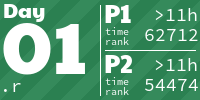
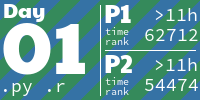
tiles changen

diff --git a/AoCTiles/.aoc_tiles_cache/leaderboard2021.html b/AoCTiles/.aoc_tiles_cache/leaderboard2021.html
@@ -88,10 +88,10 @@ If you'd like to hang out, I'm @ericwastl on Twitter.
 
 -->
 <body>
-<header><div><h1 class="title-global"><a href="/">Advent of Code</a></h1><nav><ul><li><a href="/2021/about">[About]</a></li><li><a href="/2021/events">[Events]</a></li><li><a href="https://teespring.com/stores/advent-of-code" target="_blank">[Shop]</a></li><li><a href="/2021/settings">[Settings]</a></li><li><a href="/2021/auth/logout">[Log Out]</a></li></ul></nav><div class="user">Andrew Davis <span class="star-count">20*</span></div></div><div><h1 class="title-event">&nbsp;&nbsp;<span class="title-event-wrap">{:year </span><a href="/2021">2021</a><span class="title-event-wrap">}</span></h1><nav><ul><li><a href="/2021">[Calendar]</a></li><li><a href="/2021/support">[AoC++]</a></li><li><a href="/2021/sponsors">[Sponsors]</a></li><li><a href="/2021/leaderboard">[Leaderboard]</a></li><li><a href="/2021/stats">[Stats]</a></li></ul></nav></div></header>
+<header><div><h1 class="title-global"><a href="/">Advent of Code</a></h1><nav><ul><li><a href="/2021/about">[About]</a></li><li><a href="/2021/events">[Events]</a></li><li><a href="https://teespring.com/stores/advent-of-code" target="_blank">[Shop]</a></li><li><a href="/2021/settings">[Settings]</a></li><li><a href="/2021/auth/logout">[Log Out]</a></li></ul></nav><div class="user">Andrew Davis <span class="star-count">20*</span></div></div><div><h1 class="title-event">&nbsp;&nbsp;<span class="title-event-wrap">{year=&gt;</span><a href="/2021">2021</a><span class="title-event-wrap">}</span></h1><nav><ul><li><a href="/2021">[Calendar]</a></li><li><a href="/2021/support">[AoC++]</a></li><li><a href="/2021/sponsors">[Sponsors]</a></li><li><a href="/2021/leaderboard">[Leaderboard]</a></li><li><a href="/2021/stats">[Stats]</a></li></ul></nav></div></header>
 
 <div id="sidebar">
-<div id="sponsor"><div class="quiet">Our <a href="/2021/sponsors">sponsors</a> help make Advent of Code possible:</div><div class="sponsor"><a href="https://jb.gg/AoC2021tips" target="_blank" onclick="if(ga)ga('send','event','sponsor','sidebar',this.href);" rel="noopener">JetBrains</a> - Get ready to jingle with Advent of Code in Kotlin! Have fun, learn new things, and win prizes. Believe in magic with Kotlin. Happy holidays! https://jb.gg/AoC</div></div>
+<div id="sponsor"><div class="quiet">Our <a href="/2021/sponsors">sponsors</a> help make Advent of Code possible:</div><div class="sponsor"><a href="https://ximedes.com/working-at-ximedes/" target="_blank" onclick="if(ga)ga('send','event','sponsor','sidebar',this.href);" rel="noopener">Ximedes</a> - From Kotlin in the cloud to NodeJS in the terminal, our software powers payments and public transport ticketing all over the world.</div></div>
 </div><!--/sidebar-->
 
 <main>

diff --git a/AoCTiles/.aoc_tiles_cache/leaderboard2022.html b/AoCTiles/.aoc_tiles_cache/leaderboard2022.html
@@ -88,10 +88,10 @@ If you'd like to hang out, I'm @ericwastl on Twitter.
 
 -->
 <body>
-<header><div><h1 class="title-global"><a href="/">Advent of Code</a></h1><nav><ul><li><a href="/2022/about">[About]</a></li><li><a href="/2022/events">[Events]</a></li><li><a href="https://teespring.com/stores/advent-of-code" target="_blank">[Shop]</a></li><li><a href="/2022/settings">[Settings]</a></li><li><a href="/2022/auth/logout">[Log Out]</a></li></ul></nav><div class="user">Andrew Davis <span class="star-count">4*</span></div></div><div><h1 class="title-event">&nbsp;&nbsp;<span class="title-event-wrap">{:year </span><a href="/2022">2022</a><span class="title-event-wrap">}</span></h1><nav><ul><li><a href="/2022">[Calendar]</a></li><li><a href="/2022/support">[AoC++]</a></li><li><a href="/2022/sponsors">[Sponsors]</a></li><li><a href="/2022/leaderboard">[Leaderboard]</a></li><li><a href="/2022/stats">[Stats]</a></li></ul></nav></div></header>
+<header><div><h1 class="title-global"><a href="/">Advent of Code</a></h1><nav><ul><li><a href="/2022/about">[About]</a></li><li><a href="/2022/events">[Events]</a></li><li><a href="https://teespring.com/stores/advent-of-code" target="_blank">[Shop]</a></li><li><a href="/2022/settings">[Settings]</a></li><li><a href="/2022/auth/logout">[Log Out]</a></li></ul></nav><div class="user">Andrew Davis <span class="star-count">4*</span></div></div><div><h1 class="title-event">&nbsp;&nbsp;&nbsp;&nbsp;&nbsp;&nbsp;&nbsp;<span class="title-event-wrap">Î»y.</span><a href="/2022">2022</a><span class="title-event-wrap"></span></h1><nav><ul><li><a href="/2022">[Calendar]</a></li><li><a href="/2022/support">[AoC++]</a></li><li><a href="/2022/sponsors">[Sponsors]</a></li><li><a href="/2022/leaderboard">[Leaderboard]</a></li><li><a href="/2022/stats">[Stats]</a></li></ul></nav></div></header>
 
 <div id="sidebar">
-<div id="sponsor"><div class="quiet">Our <a href="/2022/sponsors">sponsors</a> help make Advent of Code possible:</div><div class="sponsor"><a href="https://www.codethink.co.uk/" target="_blank" onclick="if(ga)ga('send','event','sponsor','sidebar',this.href);" rel="noopener">Codethink</a> - UK based software services company with a F/LOSS first approach</div></div>
+<div id="sponsor"><div class="quiet">Our <a href="/2022/sponsors">sponsors</a> help make Advent of Code possible:</div><div class="sponsor"><a href="https://www.hetzner.com/cloud?pk_campaign=adventofcode22&amp;pk_source=adventofcode&amp;pk_medium=website&amp;pk_content=aoc22-sponsor" target="_blank" onclick="if(ga)ga('send','event','sponsor','sidebar',this.href);" rel="noopener">Hetzner</a> - Create your server in seconds &amp; bring your coding vision to life!</div></div>
 </div><!--/sidebar-->
 
 <main>

diff --git a/2021/01/code/01.py b/2021/01/code/01.py
@@ -1,0 +1,177 @@
+#!/usr/bin/env python
+# coding: utf-8
+
+# In[78]:
+
+
+# --- Day 1: Sonar Sweep ---
+#   You're minding your own business on a ship at sea when the overboard alarm goes off! You rush to see if you can help. Apparently, one of the Elves tripped and accidentally sent the sleigh keys flying into the ocean!
+# 
+# Before you know it, you're inside a submarine the Elves keep ready for situations like this. It's covered in Christmas lights (because of course it is), and it even has an experimental antenna that should be able to track the keys if you can boost its signal strength high enough; there's a little meter that indicates the antenna's signal strength by displaying 0-50 stars.
+# 
+# Your instincts tell you that in order to save Christmas, you'll need to get all fifty stars by December 25th.
+# 
+# Collect stars by solving puzzles. Two puzzles will be made available on each day in the Advent calendar; the second puzzle is unlocked when you complete the first. Each puzzle grants one star. Good luck!
+#   
+#   As the submarine drops below the surface of the ocean, it automatically performs a sonar sweep of the nearby sea floor. On a small screen, the sonar sweep report (your puzzle input) appears: each line is a measurement of the sea floor depth as the sweep looks further and further away from the submarine.
+# 
+# For example, suppose you had the following report:
+#   
+#   199
+# 200
+# 208
+# 210
+# 200
+# 207
+# 240
+# 269
+# 260
+# 263
+# This report indicates that, scanning outward from the submarine, the sonar sweep found depths of 199, 200, 208, 210, and so on.
+# 
+# The first order of business is to figure out how quickly the depth increases, just so you know what you're dealing with - you never know if the keys will get carried into deeper water by an ocean current or a fish or something.
+# 
+# To do this, count the number of times a depth measurement increases from the previous measurement. (There is no measurement before the first measurement.) In the example above, the changes are as follows:
+# 
+# 199 (N/A - no previous measurement)
+# 200 (increased)
+# 208 (increased)
+# 210 (increased)
+# 200 (decreased)
+# 207 (increased)
+# 240 (increased)
+# 269 (increased)
+# 260 (decreased)
+# 263 (increased)
+# In this example, there are 7 measurements that are larger than the previous measurement.
+# 
+# How many measurements are larger than the previous measurement?
+# 
+# Your puzzle answer was 1715.
+# 
+# --- Part Two ---
+# Considering every single measurement isn't as useful as you expected: there's just too much noise in the data.
+# 
+# Instead, consider sums of a three-measurement sliding window. Again considering the above example:
+# 
+# 199  A      
+# 200  A B    
+# 208  A B C  
+# 210    B C D
+# 200  E   C D
+# 207  E F   D
+# 240  E F G  
+# 269    F G H
+# 260      G H
+# 263        H
+# Start by comparing the first and second three-measurement windows. The measurements in the first window are marked A (199, 200, 208); their sum is 199 + 200 + 208 = 607. The second window is marked B (200, 208, 210); its sum is 618. The sum of measurements in the second window is larger than the sum of the first, so this first comparison increased.
+# 
+# Your goal now is to count the number of times the sum of measurements in this sliding window increases from the previous sum. So, compare A with B, then compare B with C, then C with D, and so on. Stop when there aren't enough measurements left to create a new three-measurement sum.
+# 
+# In the above example, the sum of each three-measurement window is as follows:
+#   
+#   A: 607 (N/A - no previous sum)
+# B: 618 (increased)
+# C: 618 (no change)
+# D: 617 (decreased)
+# E: 647 (increased)
+# F: 716 (increased)
+# G: 769 (increased)
+# H: 792 (increased)
+# In this example, there are 5 sums that are larger than the previous sum.
+# 
+# Consider sums of a three-measurement sliding window. How many sums are larger than the previous sum?
+#   
+#   Your puzzle answer was 1739.
+
+
+# In[79]:
+
+
+import pandas as pd
+import numpy as np
+
+
+# In[80]:
+
+
+# d1 - check depth changes increase/decrease
+
+
+# In[81]:
+
+
+d1 = pd.read_csv("/Users/andrew.davis/Documents/personal_repos/advent_of_code_2021/data/day_1/d1_AoC.csv", 
+                 sep=" ", 
+                 header=None)
+d1.columns = ['position']
+
+
+# In[83]:
+
+
+d1['depth'] = np.nan
+for idx, val in enumerate(d1['position']):
+    #print(idx, val)
+    
+    if idx == 0:
+        next
+    else: 
+        d1.loc[idx, 'depth'] = (d1['position'][idx] - d1['position'][idx - 1]) > 0
+
+
+# In[84]:
+
+
+np.nansum(d1.depth)
+
+
+# In[85]:
+
+
+# part 2 - compare in 3 depth intervals
+
+
+# In[86]:
+
+
+d2 = []
+d2_depth = []
+
+
+# In[87]:
+
+
+for idx, val in enumerate(d1['position']):
+    #print(idx, val)
+    if idx in [0,1]:
+        d2.append(np.nan)
+        continue
+    else:
+        d2.append(
+            sum(
+            [d1.position[int(idx)-2],
+            d1.position[int(idx)-1],
+            d1.position[int(idx)]]
+            )
+        )
+    d2_depth.append((d2[idx] - d2[idx-1]) > 0)
+
+
+# In[88]:
+
+
+np.nansum(d2_depth)
+
+
+# In[ ]:
+
+
+
+
+
+# In[ ]:
+
+
+
+

diff --git a/AoCTiles/create_aoc_tiles.py b/AoCTiles/create_aoc_tiles.py
@@ -176,11 +176,13 @@ def find_recursive_solution_files(directory: Path) -> list[Path]:
     solution_paths = []
     #print(directory.glob('*/*'))
     for path in directory.glob('*/*'):
-        #print(path)
-        #print(path.suffix)
-        #print(path.suffix in extension_to_color)
+        print(extension_to_color)
+        print(path)
+        print(path.suffix)
+        print('ipynb' in extension_to_color)
+        print(path.suffix in extension_to_color)
         if path.is_file() and path.suffix in extension_to_color:
-            #print(path)
+            print(path)
             solution_paths.append(path)
     return solution_paths
 
@@ -406,7 +408,7 @@ def handle_year(year: int, day_to_solutions: dict[int, list[str]]):
 
 def main():
     for year, day_to_solutions_list in get_solution_paths_dict_for_years().items():
-        #print(day_to_solutions_list)
+        print(day_to_solutions_list)
         print(f"=== Generating table for year {year} ===")
         handle_year(year, day_to_solutions_list)
 

diff --git a/README.md b/README.md
@@ -3,6 +3,12 @@ My solutions for each of the days of advent of code
 
 I will default to doing the solutions in R but if I am feeling cheeky I will challenge myself to do them in python or another language.
 
+To makea jupyter notebook a python script.
+
+```
+jupyter nbconvert --to script {PATHTOCODE}
+```
+
 <!-- AOC TILES BEGIN -->
 <h1 align="center">
   2022 - 4 ⭐
@@ -19,7 +25,7 @@ I will default to doing the solutions in R but if I am feeling cheeky I will cha
 <h1 align="center">
   2021 - 20 ⭐
 </h1>
-<a href="2021/01/code/day1.r">
+<a href="2021/01/code/01.py">
   <img src="Media/2021/01.png" width="161px">
 </a>
 <a href="2021/02/code/day2.r">
